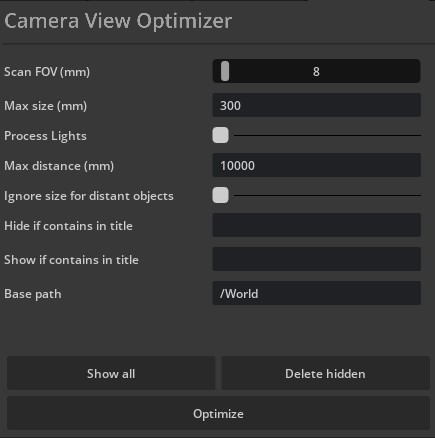
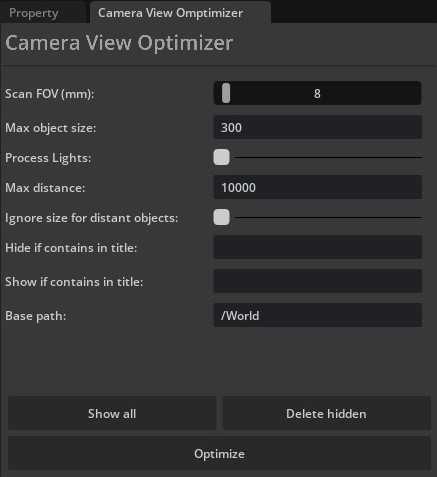
Update start_window.jpg

diff --git a/exts/karpenko.camera_view_optimizer.ext/karpenko/camera_view_optimizer/ext/extension.py b/exts/karpenko.camera_view_optimizer.ext/karpenko/camera_view_optimizer/ext/extension.py
@@ -1,3 +1,4 @@
+import asyncio
 import math
 import re
 
@@ -16,6 +17,35 @@ from .style import cvo_window_style
 
 
 class CameraViewOptimizer(omni.ext.IExt):
+    # ext_id is current extension id. It can be used with extension manager to query additional information, like where
+    # this extension is located on filesystem.
+    def on_startup(self, ext_id):
+        print("[karpenko.camera_view_optimizer.ext] CameraViewOptimizer startup")
+        self._usd_context = omni.usd.get_context()
+        self.stage = self._usd_context.get_stage()
+        self.render_main_window()
+        # show the window in the usual way if the stage is loaded
+        if self.stage:
+            self._window.deferred_dock_in("Property")
+        else:
+            # otherwise, show the window after the stage is loaded
+            self._setup_window_task = asyncio.ensure_future(self._dock_window())
+
+    def on_shutdown(self):
+        """
+        It deletes all the variables that were created in the extension
+        """
+        print("[karpenko.camera_view_optimizer.ext] CameraViewOptimizer shutdown")
+        self._fov_slider = None
+        self._max_size_slider = None
+        self._max_distance_field = None
+        self._hide_objects_field = None
+        self._show_objects_field = None
+        self._base_path_field = None
+        self._delete_objects = None
+        self._button_optimize = None
+        self._button_show_all = None
+        self._button_delete_hidden = None
 
     def optimize(self):
         """
@@ -169,13 +199,8 @@ class CameraViewOptimizer(omni.ext.IExt):
         prim_bbox = bbox_cache.ComputeWorldBound(prim)
         prim_range = prim_bbox.ComputeAlignedRange()
         return prim_range.GetSize()
-
-    # ext_id is current extension id. It can be used with extension manager to query additional information, like where
-    # this extension is located on filesystem.
-    def on_startup(self, ext_id):
-        print("[karpenko.camera_view_optimizer.ext] CameraViewOptimizer startup")
-        self._usd_context = omni.usd.get_context()
-        self.stage = self._usd_context.get_stage()
+        
+    def render_main_window(self):
         self._window = ui.Window("Camera View Omptimizer", width=300, height=300)
         with self._window.frame:
             with ui.VStack(style=cvo_window_style):
@@ -189,7 +214,7 @@ class CameraViewOptimizer(omni.ext.IExt):
                             with ui.HStack(height=0):
                                 tooltip = "When checking the visibility of the object, the camera FOV will be set " \
                                             "to the value specified in the slider and then back once scan is complete"
-                                ui.Label("Scan FOV (mm)", elided_text=True, tooltip=tooltip)
+                                ui.Label("Scan FOV (mm):", elided_text=True, tooltip=tooltip)
                                 # Slider for the FOV value of the camera
                                 self._fov_slider = ui.IntSlider(
                                     min=2,
@@ -204,7 +229,7 @@ class CameraViewOptimizer(omni.ext.IExt):
                         with ui.HStack(height=0):
                             tooltip = "Ignore object if one of the three dimensions is greater than values provided," \
                                       "useful for walls, floors, etc."
-                            ui.Label("Max size (mm)", elided_text=True, tooltip=tooltip)
+                            ui.Label("Max object size:", elided_text=True, tooltip=tooltip)
                             # Slider for the max object size
                             self._max_size_slider = ui.IntField(
                                 min=0,
@@ -220,7 +245,7 @@ class CameraViewOptimizer(omni.ext.IExt):
                             tooltip = "Should the extension hide lights?"
                             # Available types of objects to hide
                             with ui.HStack(height=0):
-                                ui.Label("Process Lights", elided_text=True, tooltip=tooltip, width=ui.Percent(50))
+                                ui.Label("Process Lights:", elided_text=True, tooltip=tooltip, width=ui.Percent(50))
                                 self._hide_lights = ui.CheckBox(tooltip=tooltip, width=ui.Percent(5))
                                 ui.Line(name="default", width=ui.Percent(45))
 
@@ -229,9 +254,9 @@ class CameraViewOptimizer(omni.ext.IExt):
                         # max distance int field
                         with ui.VStack():
                             tooltip = "Max distance of the object from the camera. If the object is further than this" \
-                                      "value, it will be hidden even if it is visible to the camera."
+                                      " value, it will be hidden even if it is visible to the camera."
                             with ui.HStack(height=0):
-                                ui.Label("Max distance (mm)", tooltip=tooltip)
+                                ui.Label("Max distance:", tooltip=tooltip)
                                 self._max_distance_field = ui.IntField(tooltip=tooltip)
                                 self._max_distance_field.model.set_value(10000)
 
@@ -242,7 +267,7 @@ class CameraViewOptimizer(omni.ext.IExt):
                             tooltip = "No matter the size of the object, if it is too far away, it will be hidden"
                             with ui.HStack(height=0):
                                 ui.Label(
-                                    "Ignore size for distant objects",
+                                    "Ignore size for distant objects:",
                                     elided_text=True,
                                     tooltip=tooltip,
                                     width=ui.Percent(50)
@@ -255,18 +280,18 @@ class CameraViewOptimizer(omni.ext.IExt):
 
                         # String field to hide objects by title
                         with ui.VStack():
-                            tooltip = "Hide objects by title. Plain text match and regex is supported."
+                            tooltip = "Hide objects by title. Partial text match and regex is supported."
                             with ui.HStack(height=0):
-                                ui.Label("Hide if contains in title", elided_text=True, tooltip=tooltip)
+                                ui.Label("Hide if contains in title:", elided_text=True, tooltip=tooltip)
                                 self._hide_objects_field = ui.StringField(tooltip=tooltip)
 
                         ui.Spacer(height=10)
 
                         # string field to show objects by title
                         with ui.VStack():
-                            tooltip = "Show objects by title. Plain text match and regex is supported."
+                            tooltip = "Show objects by title. Partial text match and regex is supported."
                             with ui.HStack(height=0):
-                                ui.Label("Show if contains in title", elided_text=True, tooltip=tooltip)
+                                ui.Label("Show if contains in title:", elided_text=True, tooltip=tooltip)
                                 self._show_objects_field = ui.StringField(tooltip=tooltip)
 
                         ui.Spacer(height=10)
@@ -275,8 +300,8 @@ class CameraViewOptimizer(omni.ext.IExt):
                         with ui.VStack():
                             with ui.HStack(height=0):
                                 tooltip = "Base path where to search for objects. If empty or invalid, " \
-                                          "DefaultPrim will be used"
-                                ui.Label("Base path", elided_text=True, tooltip=tooltip)
+                                          "DefaultPrim will be used, so make sure this is value is correct."
+                                ui.Label("Base path:", elided_text=True, tooltip=tooltip)
                                 self._base_path_field = ui.StringField(tooltip=tooltip)
                                 self._base_path_field.model.set_value(self.stage.GetDefaultPrim().GetPath().pathString)
 
@@ -304,21 +329,29 @@ class CameraViewOptimizer(omni.ext.IExt):
                         clicked_fn=self.optimize,
                     )
 
-    def on_shutdown(self):
+    async def _dock_window(self):
         """
-        It deletes all the variables that were created in the extension
+        It waits for the property window to appear, then docks the window to it
         """
-        print("[karpenko.camera_view_optimizer.ext] CameraViewOptimizer shutdown")
-        self._fov_slider = None
-        self._max_size_slider = None
-        self._max_distance_field = None
-        self._hide_objects_field = None
-        self._show_objects_field = None
-        self._base_path_field = None
-        self._delete_objects = None
-        self._button_optimize = None
-        self._button_show_all = None
-        self._button_delete_hidden = None
+        property_win = None
+
+        frames = 3
+        while frames > 0:
+            if not property_win:
+                property_win = ui.Workspace.get_window("Property")
+            if property_win:
+                break  # early out
+
+            frames = frames - 1
+            await omni.kit.app.get_app().next_update_async()
+
+        # Dock to property window after 5 frames. It's enough for window to appear.
+        for _ in range(5):
+            await omni.kit.app.get_app().next_update_async()
+
+        if property_win:
+            self._window.deferred_dock_in("Property")
+        self._setup_window_task = None
 
     def get_default_prim(self):
         """

diff --git a/README.md b/README.md
@@ -18,7 +18,10 @@ To add a this extension to your Omniverse app:
 2. Search for **Camera View Optimizer** extension and enable it
 ### Manual
 1. Go to **Extension Manager** (Window - Extensions) — **Gear Icon** — **Extension Search Path**
-2. Add this as a search path: `git://github.com/Vadim-Karpenko/omniverse-camera-view-optimizer?branch=main&dir=exts`
+2. Add this as a search path: 
+    ```
+    git://github.com/Vadim-Karpenko/omniverse-camera-view-optimizer?branch=main&dir=exts
+    ```
 3. Search for **Camera View Optimizer** extension and enable it
 
 A new window will appear next to the Properties tab:
